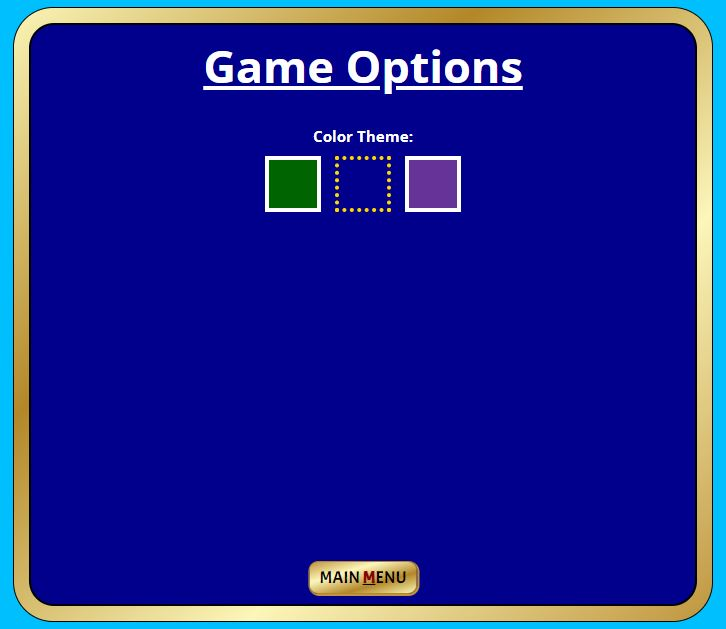
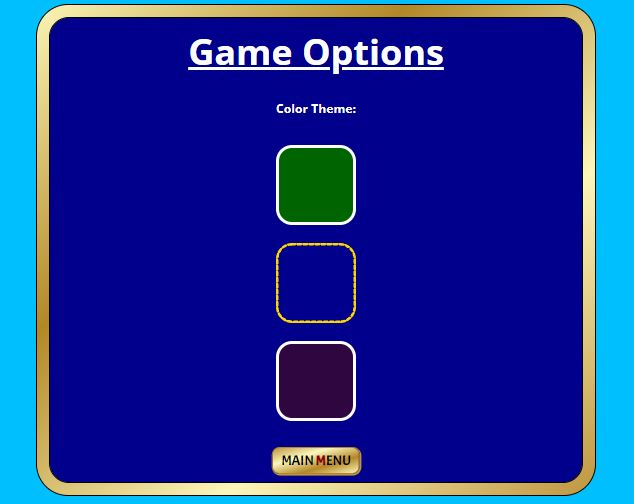
Tidy JS file, add and amend docstrings to functions. Continue adding features to the readme, and updte the screenshots of the options sub menu.

Changed region(s): [[0.0, 0.0, 0.989, 1.0], [0.3596, 0.2083, 0.6593, 0.4464]]

diff --git a/assets/js/script.js b/assets/js/script.js
@@ -345,8 +345,6 @@ document.addEventListener("DOMContentLoaded", function () {
      */
     function fanCards(side, hand, card) {
         let value = 15;
-        
-
         for (let i = 1; i <= hand.length; i++) {
             if (side === "player"){
                 card.style.left =  (value * i) + "px";
@@ -354,7 +352,6 @@ document.addEventListener("DOMContentLoaded", function () {
                 card.style.left =  (value * i) - 15 + "px";
             }
         }
-        console.log(' loop :>> ', value);
     }
 
     /**
@@ -395,14 +392,11 @@ document.addEventListener("DOMContentLoaded", function () {
      */
     function computerTurn() {
         canPlay = false;
-
         houseCardsRef[0].style.display = "none";
         houseCardsRef[1].style.left = "15px";
         houseCardsRef[1].style.display = "inline";
-
         let playerTotal = checkHandValue(playerHand);
         let dealerTotal = checkHandValue(dealerHand);
-
         while (dealerTotal < 17) {
             dealerHand.push(dealCard("dealer"));
             let dealerTotal = checkHandValue(dealerHand);
@@ -414,7 +408,6 @@ document.addEventListener("DOMContentLoaded", function () {
             }
         }
         return compareHands(playerTotal, dealerTotal);
-
     }    
     
     /**
@@ -607,7 +600,7 @@ document.addEventListener("DOMContentLoaded", function () {
     } 
 
     /**
-    * Allows the game rules meu to extend
+    * Allows the game rules menu to extend
     */
     function extendRulePanel(target) {
         hideRulePanels();
@@ -621,7 +614,7 @@ document.addEventListener("DOMContentLoaded", function () {
     }
 
     /**
-    * Hides game rules segments when a new one is open
+    * Hides all game rules segments when a new one is open
     */    
     function hideRulePanels() {
         for (let i = 0; i < ruleSegment.length; i++) {
@@ -633,7 +626,7 @@ document.addEventListener("DOMContentLoaded", function () {
     }
     
     /**
-     * Adds content to the responsible gaming modal
+     * hides main menu and reveals the responsible gaming sub menu
      */
     function responsibleGamingMenu() {
         mainMenuRef.style.display = "none";

diff --git a/README.md b/README.md
@@ -1,4 +1,5 @@
 /*retake screenshots of options/colorthemes an check remining screenshots*/
+/* Make sure to get a screenshot of the results modal for both house blackjack, player black jack and draw results */
 
 # **Blackjack**
 ## **Site Overview**
@@ -160,7 +161,7 @@ Each sub menu Has a "Main Menu" button at the bottom of the page to navigate bac
 
 The card table table consist of multiple chidren elements and provided a space for the game logic to display its out puts.
 
-### **Dealer side of the table:**
+### **Dealer Side of the Table:**
 #### ***House Hand:***
 * First card is dealt face down.  
   ![Initial House Hand](docs/screenshots/house-hand-first.jpg)
@@ -171,7 +172,7 @@ The card table table consist of multiple chidren elements and provided a space f
 The score board keeps a tally of all wins, loses and draws. And can be reset at anytime with the "Clear Tally button". This is just to give the user something gague their progress in the absence of pot of fun money (See future developments.).  
 ![Scoreboard](docs/screenshots/scoreboard.jpg)
 
-### **Player side of the table**
+### **Player Side of the Table**
 The player side of the table consists of two sections: -
   * Player hand.
    *Player controls.
@@ -185,6 +186,28 @@ The player control section comprises of three controls: -
   * Hit Me Button - Draws a random card from the deck and adds it to the players hand.
   * Stand Button - End the players turn and initiates the computers turn.
   * Game rules anchor tage - Takes the user to directly to the game rules.
+
+![Player Controls Section](docs/screenshots/player-controls.jpg)
+
+### **Game Table Pop up Modal**
+### **Game Initiation Modal:**
+I included this to allow for all actions to first be initiated by the user. When the user first views the table he is greated with the below modal:   
+![Game Inititation Modal](docs/screenshots/deal-me-in.jpg)
+
+### **Results Modals:**
+This same modal is used to display the result and a brief summary. The inner HTML is change via the javascript file dependant of the result.
+#### ***Win:***
+![Win Modal](docs/screenshots/win.jpg)
+
+#### ***Lose:***
+![Lose Modal](docs/screenshots/lose.jpg)
+
+#### ***Player Bust:***
+![Player Bust](docs/screenshots/player-bust.jpg)
+
+#### ***House Bust:***
+![House Bust](docs/screenshots/house-bust.jpg)
+
 
 
 
